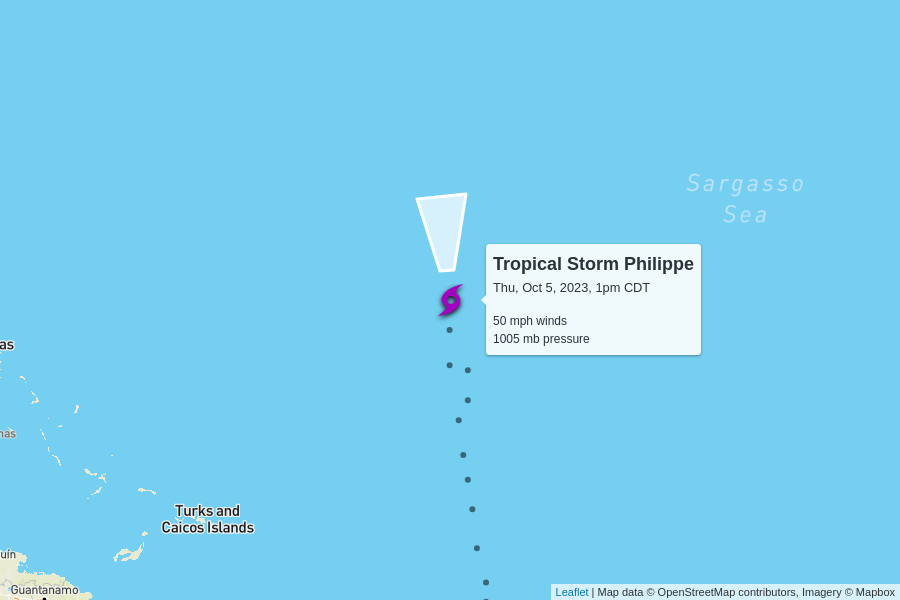
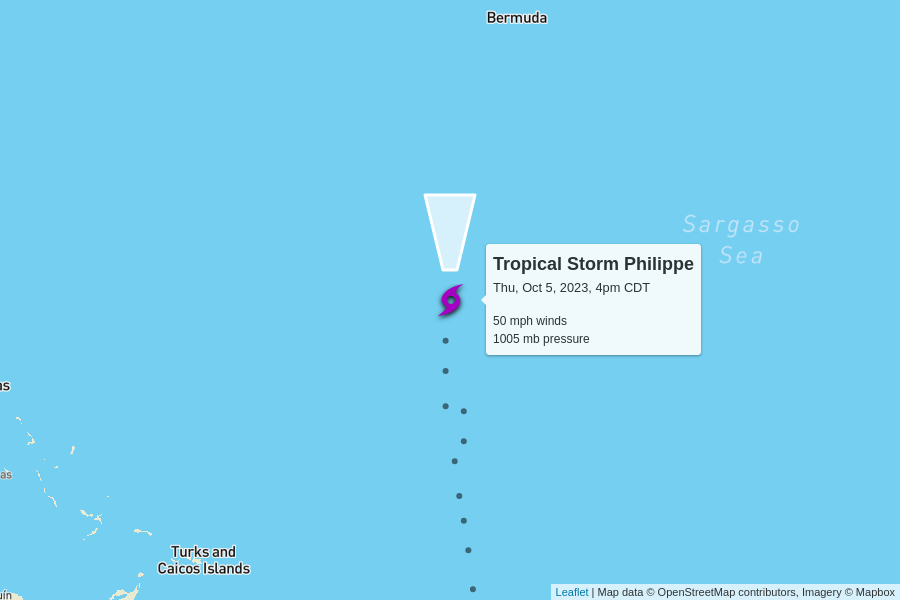
automatic update

diff --git a/docs/index.html b/docs/index.html
@@ -102,7 +102,7 @@
         <td colspan="6" class="storm category-0" >
           <h2>
             Tropical Storm Philippe
-            <p class="updated">last updated <span data-time>2023-10-05T18:00:00.000Z</span></p>
+            <p class="updated">last updated <span data-time>2023-10-05T21:00:00.000Z</span></p>
           </h2>
         </td>
       </tr>
@@ -120,9 +120,9 @@
         <td>50 mph<br>0 mph since last update</td>
         <td>1005 mb<br>0 mb since last update</td>
         <td>
-          13 mph to the north
+          14 mph to the north
           <br/>
-          <span style="display: inline-block; font-size: 1.5em; transform: rotate(355deg);">↑</span>
+          <span style="display: inline-block; font-size: 1.5em; transform: rotate(360deg);">↑</span>
         </td>
         <td><a href="https://raw.githubusercontent.com/mgwalker/atlantic-hurricanes/main/data/csv/AL172023.csv">AL172023.csv</a></td>
         <td><a href="https://www.nhc.noaa.gov/archive/2023/PHILIPPE.shtml?">NHC advisories</a></td>
